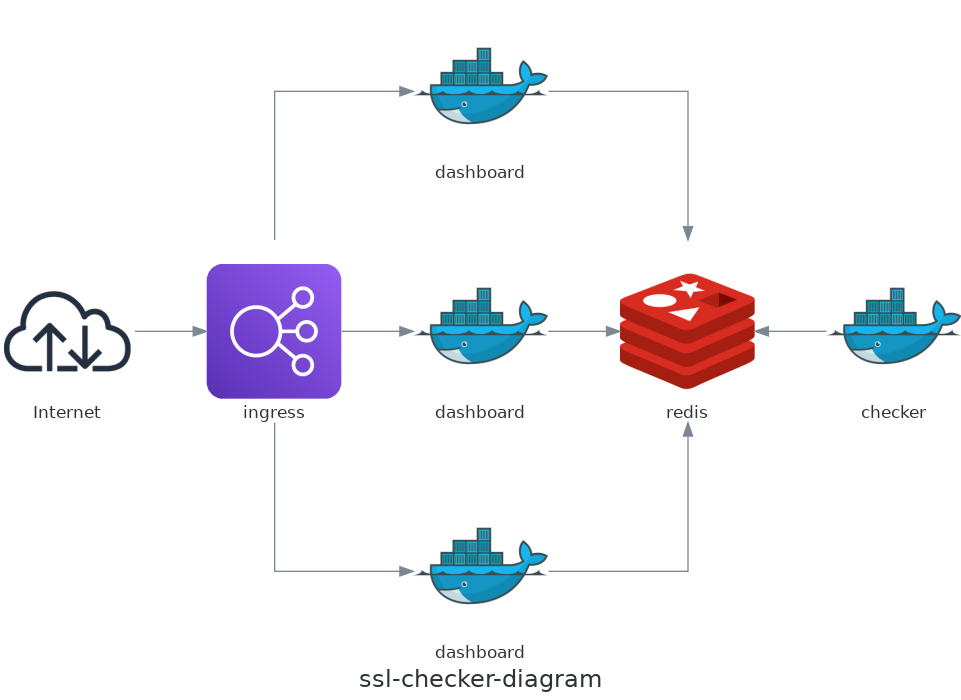
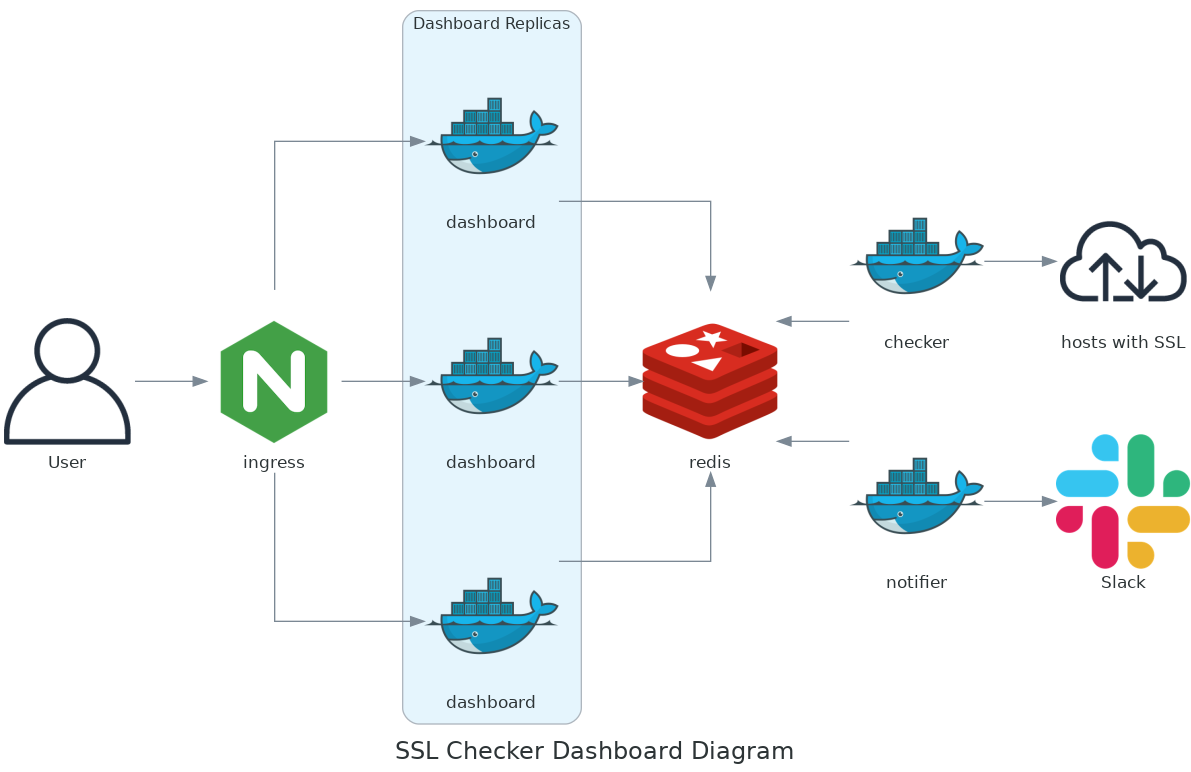
added notifier to diagram

diff --git a/img/diagrams/dac.py b/img/diagrams/dac.py
@@ -1,21 +1,38 @@
 #!/usr/bin/env python
 
-from diagrams import Diagram
+from diagrams import Diagram, Cluster
 from diagrams.aws.network import ELB
 from diagrams.onprem.container import Docker
 from diagrams.onprem.inmemory import Redis
-from diagrams.onprem.network import Internet
+from diagrams.onprem.network import Internet, Nginx
+from diagrams.saas.chat import Slack
+from diagrams.onprem.compute import Server
+from diagrams.onprem.client import User
 
-graph_attr = {
-    "fontsize": "18",
-    "pad": "0"
-}
 
-with Diagram("ssl-checker-diagram", show=False, graph_attr=graph_attr):
-    Internet("Internet") >> ELB("ingress") >> [
-            Docker("dashboard"), 
+graph_attr = {"fontsize": "18", "pad": "0"}
+
+with Diagram(
+    "SSL Checker Dashboard Diagram",
+    filename="ssl-checker-diagram",
+    show=False,
+    graph_attr=graph_attr,
+):
+    user = User("User")
+    ingress = Nginx("ingress")
+
+    with Cluster("Dashboard Replicas"):
+        dashboards = [
             Docker("dashboard"),
-            Docker("dashboard")
-            ] >> Redis("redis") << Docker("checker")
+            Docker("dashboard"),
+            Docker("dashboard"),
+        ]
 
+    checker = Docker("checker")
 
+    notifier = Docker("notifier")
+
+    user >> ingress >> dashboards >> Redis("redis") << [checker, notifier]
+
+    checker >> Internet("hosts with SSL")
+    notifier >> Slack("Slack")
